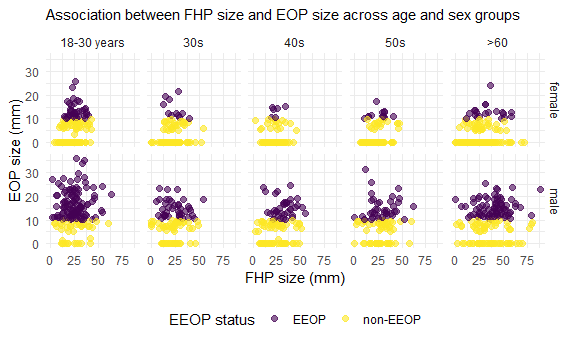
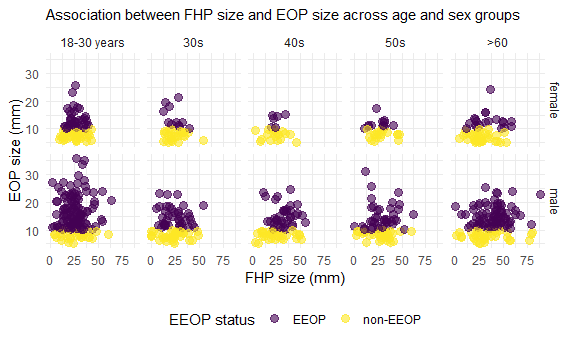
Finished P3

diff --git a/p8105_mtp_ml4701.md b/p8105_mtp_ml4701.md
@@ -308,13 +308,17 @@ fig3+fig4
 
 <img src="p8105_mtp_ml4701_files/figure-gfm/unnamed-chunk-5-1.png" width="90%" />
 
-2.  From the following plot, no clear trend is seen either accross `age`
-    and `sex` groups, or between `eop_size_mm` and `fhp_size_mm`, so EOP
-    size may not be associated with FHP size, gender or age.
+2.  From the paper, the threshold for recording the size of an EOP was
+    set at 5 mm, so here we filtered samples with `eop_size_mm` &lt;=
+    5mm. From the resulting scater plot, no clear trend is seen either
+    accross `age` and `sex` groups, or between `eop_size_mm` and
+    `fhp_size_mm`, so EOP size may not be associated with FHP size,
+    gender or age.
 
 ``` r
 eop_df %>% 
   select(age,sex,eop_size_mm,fhp_size_mm) %>% 
+  filter(eop_size_mm >= 5) %>% 
   drop_na() %>%
   filter(age >= 18) %>% 
   mutate(
@@ -336,7 +340,7 @@ eop_df %>%
     eeop = case_when(eop_size <= 1 ~ "non-EEOP",
                      eop_size > 1 ~"EEOP") ) %>%
   ggplot(aes(x = fhp_size_mm,y = eop_size_mm,color = eeop))+
-    geom_point(alpha = .6,size = 2)+
+    geom_point(alpha = .6,size = 3)+
     facet_grid(sex~age_group)+
     labs(
       subtitle= "Association between FHP size and EOP size across age and sex groups ",
@@ -344,6 +348,113 @@ eop_df %>%
 ```
 
 <img src="p8105_mtp_ml4701_files/figure-gfm/unnamed-chunk-6-1.png" width="90%" />
+
+### 3 - Reproducing reported results
+
+Comparing the authors’ stated sample sizes in each age group and what we
+calculated from data, the sample sizes are, though similar, not
+identical except for `50s` groups.
+
+``` r
+sample_size_available = eop_df %>% 
+  filter(age >= 18) %>% 
+  mutate(
+    age_group = case_when(
+      age <= 30 ~ "2",
+      (age > 30) &(age <= 40) ~ "3",
+      (age > 40) &(age <= 50) ~ "4",
+      (age > 50) &(age <= 60) ~ "5",
+      (age > 60)~ "6"),
+    age_group = factor(age_group, levels = c("2","3","4","5","6"),ordered = TRUE, 
+                       labels = c("18-30 years","30s","40s","50s",">60"))) %>% 
+  group_by(age_group) %>% 
+  summarize(size = n())
+
+tibble(
+  age_group = c("18-30 years","30s","40s","50s",">60"),
+  from_paper = c(300,200,200,200,300),
+  from_data = pull(sample_size_available,size)) %>% 
+  knitr::kable()
+```
+
+| age\_group  | from\_paper | from\_data |
+|:------------|------------:|-----------:|
+| 18-30 years |         300 |        303 |
+| 30s         |         200 |        204 |
+| 40s         |         200 |        208 |
+| 50s         |         200 |        200 |
+| &gt;60      |         300 |        305 |
+
+From the paper, mean FHP for male was 28 ±15 mm, for female 24 ±11 mm;
+
+from the data, mean FHP for male was 28.8±14.7mm, for female
+23.7±10.6mm,
+
+which are identical after rounding.
+
+``` r
+eop_df %>% 
+  group_by(sex) %>% 
+  summarise(fhp_mean = mean(fhp_size_mm,na.rm = TRUE),
+            fhp_sd = sd(fhp_size_mm,na.rm = TRUE))
+```
+
+    ## # A tibble: 2 x 3
+    ##   sex    fhp_mean fhp_sd
+    ##   <fct>     <dbl>  <dbl>
+    ## 1 female     23.7   10.6
+    ## 2 male       28.5   14.7
+
+Definition of EEOP: EOP with size exceeded 10 mm, namely
+`eop_size_mm`&gt; 10 or `eop_size` &gt; 1. Since internal inconsistency
+existed in encoding `eop_size` from `eop_size_mm`, we can validate the
+prevalence of EEOP using criteria `eop_size_mm`&gt; 10 directly. The
+calculated prevalence is 32.1%, still similar but not identical to that
+reported (33%) in the paper.
+
+``` r
+eeop_recalculated = eop_df %>% 
+  mutate(
+    eeop = case_when(eop_size_mm > 10 ~ 1,
+                     eop_size_mm <= 10 ~ 0))
+sum(pull(eeop_recalculated,eeop))/dim(eeop_recalculated)[1]
+```
+
+    ## [1] 0.3210483
+
+From the following plot, proportion of FHP &gt;40 mm subjects increases
+with age, and the proportion within `>60` age group is 32.5%, different
+but close to 34.5% given in the paper. The results does show that FHP
+&gt;40mm may be more common in older subjects.
+
+``` r
+eop_df %>% 
+  filter(fhp_size_mm >40) %>% 
+  mutate(
+    age_group = case_when(
+      age <= 30 ~ "2",
+      (age > 30) &(age <= 40) ~ "3",
+      (age > 40) &(age <= 50) ~ "4",
+      (age > 50) &(age <= 60) ~ "5",
+      (age > 60)~ "6"),
+    age_group = factor(age_group, levels = c("2","3","4","5","6"),ordered = TRUE, 
+                       labels = c("18-30 years","30s","40s","50s",">60"))) %>% 
+  group_by(age_group) %>% 
+  summarize(case = n()) %>% 
+  left_join(sample_size_available) %>% 
+  mutate(proportion = round(case/size,3))%>%   
+
+  ggplot(aes(x = age_group, y = proportion))+
+  geom_bar(stat = "identity",alpha = .8)+
+  geom_text(aes(label = proportion),nudge_y = 0.01)+
+  labs(
+    title = "Proportion of FHP >40 mm observed accross age groups",
+    x = "Age Group (years)",y = "Proportion")
+```
+
+    ## Joining, by = "age_group"
+
+<img src="p8105_mtp_ml4701_files/figure-gfm/unnamed-chunk-10-1.png" width="90%" />
 
 ``` r
 wordcountaddin::text_stats("p8105_mtp_ml4701.Rmd")
@@ -364,7 +475,11 @@ wordcountaddin::text_stats("p8105_mtp_ml4701.Rmd")
 
 | Method          | koRpus      | stringi       |
 |:----------------|:------------|:--------------|
-| Word count      | 502         | 432           |
-| Character count | 2924        | 2924          |
-| Sentence count  | 44          | Not available |
-| Reading time    | 2.5 minutes | 2.2 minutes   |
+| Word count      | 620         | 532           |
+| Character count | 3586        | 3585          |
+| Sentence count  | 52          | Not available |
+| Reading time    | 3.1 minutes | 2.7 minutes   |
+
+including factors `sex`, `age_group`, `eop_size` and `fhp_category`,
+among which `sex` is unordered with levels female, male, and the rest
+have ascending orders consistent with their numeric values.
